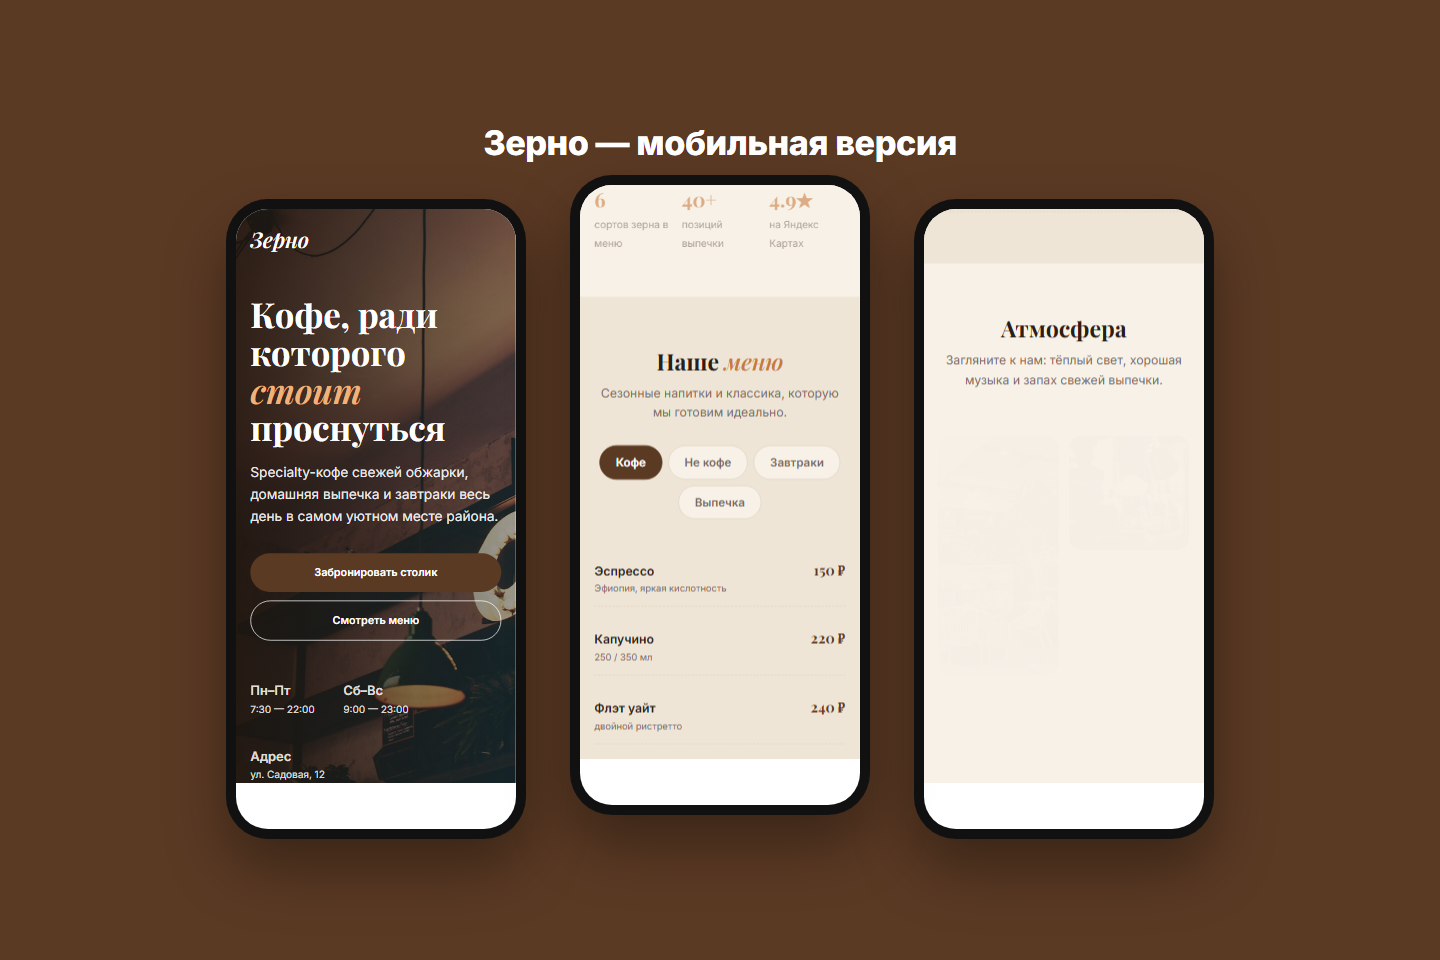
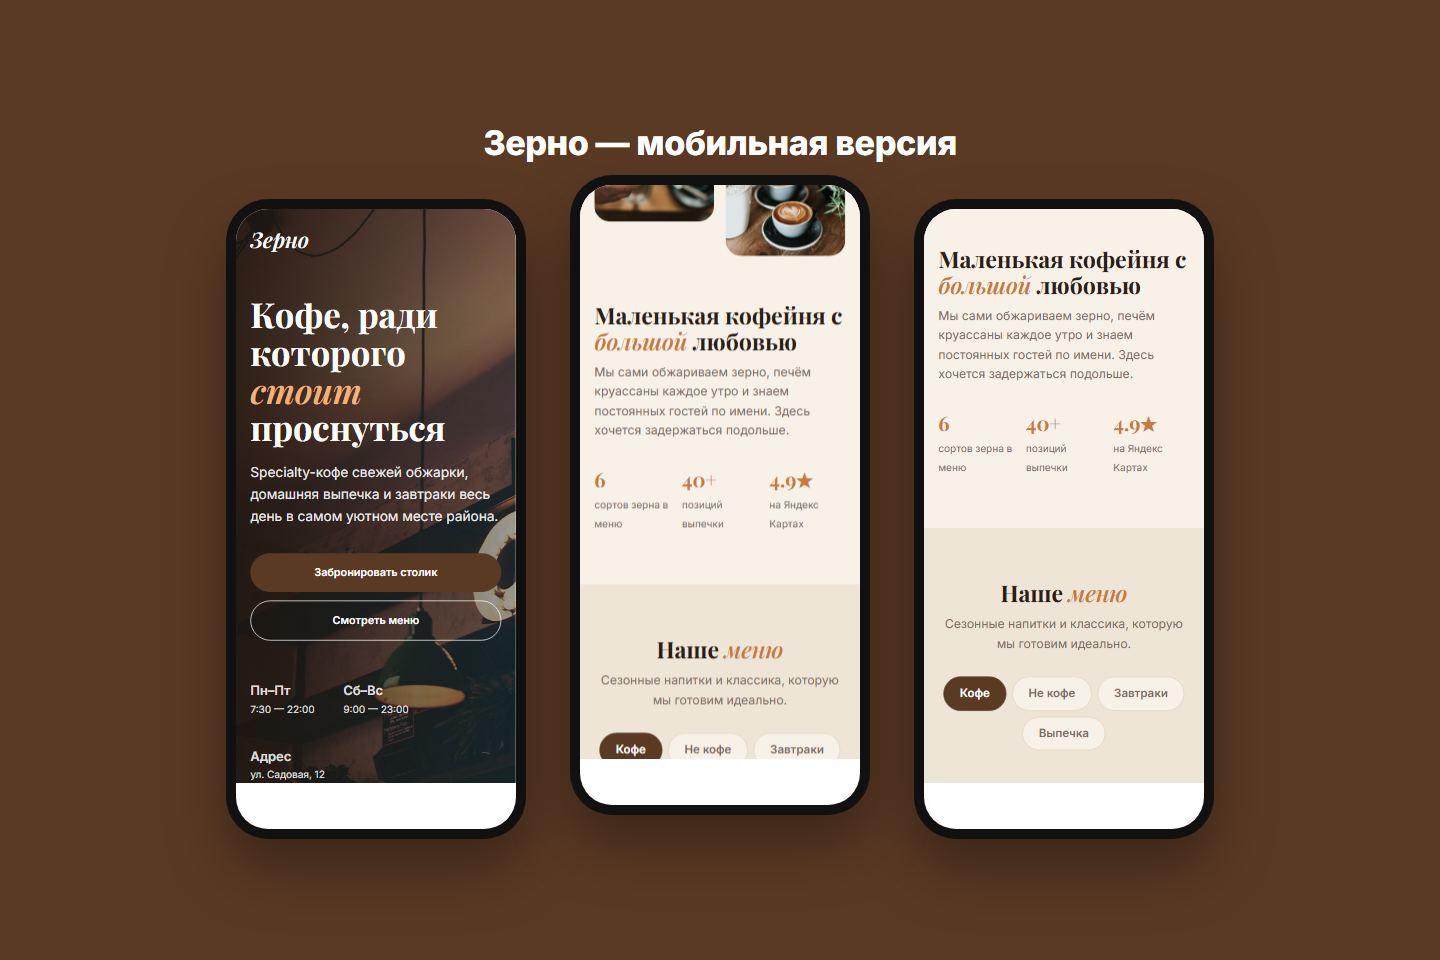
shot: прокрутка к якорю

diff --git a/coffee/index.html b/coffee/index.html
@@ -197,7 +197,7 @@
 </footer>
 
 <script>
-  if (location.search.includes("shot")) { const s = document.createElement("style"); s.textContent = ".reveal{opacity:1!important;transform:none!important;transition:none!important}"; document.head.appendChild(s); }
+  if (location.search.includes("shot")) { const s = document.createElement("style"); s.textContent = ".reveal{opacity:1!important;transform:none!important;transition:none!important}"; document.head.appendChild(s); document.documentElement.style.scrollBehavior = "auto"; addEventListener("load", () => { if (location.hash) document.querySelector(location.hash)?.scrollIntoView(); }); }
   const menu = {
     coffee: [['Эспрессо', 'Эфиопия, яркая кислотность', 150], ['Капучино', '250 / 350 мл', 220], ['Флэт уайт', 'двойной ристретто', 240], ['Раф лавандовый', 'хит сезона', 290], ['Воронка V60', 'альтернатива, 300 мл', 260], ['Колд брю', '16 часов экстракции', 250]],
     drinks: [['Матча латте', 'японский чай + молоко', 280], ['Какао с маршмеллоу', 'бельгийский шоколад', 240], ['Облепиховый чай', 'с мёдом и имбирём', 260], ['Лимонад', 'малина-базилик', 230]],

diff --git a/course/index.html b/course/index.html
@@ -238,7 +238,7 @@
 <footer><div class="container"><span>© 2026 BEATLAB</span><span>Демо-проект для портфолио</span></div></footer>
 
 <script>
-  if (location.search.includes("shot")) { const s = document.createElement("style"); s.textContent = ".reveal{opacity:1!important;transform:none!important;transition:none!important}"; document.head.appendChild(s); }
+  if (location.search.includes("shot")) { const s = document.createElement("style"); s.textContent = ".reveal{opacity:1!important;transform:none!important;transition:none!important}"; document.head.appendChild(s); document.documentElement.style.scrollBehavior = "auto"; addEventListener("load", () => { if (location.hash) document.querySelector(location.hash)?.scrollIntoView(); }); }
   const eq = document.getElementById('eq');
   for (let i = 0; i < 28; i++) {
     const s = document.createElement('span');

diff --git a/dental/index.html b/dental/index.html
@@ -259,7 +259,7 @@
 </footer>
 
 <script>
-  if (location.search.includes("shot")) { const s = document.createElement("style"); s.textContent = ".reveal{opacity:1!important;transform:none!important;transition:none!important}"; document.head.appendChild(s); }
+  if (location.search.includes("shot")) { const s = document.createElement("style"); s.textContent = ".reveal{opacity:1!important;transform:none!important;transition:none!important}"; document.head.appendChild(s); document.documentElement.style.scrollBehavior = "auto"; addEventListener("load", () => { if (location.hash) document.querySelector(location.hash)?.scrollIntoView(); }); }
   const menu = document.getElementById('menu');
   document.getElementById('burger').onclick = () => menu.classList.toggle('open');
   menu.querySelectorAll('a').forEach(a => a.onclick = () => menu.classList.remove('open'));

diff --git a/barbershop/index.html b/barbershop/index.html
@@ -281,7 +281,7 @@
 <a href="#" class="float-cta" aria-label="Написать в Telegram">✈</a>
 
 <script>
-  if (location.search.includes("shot")) { const s = document.createElement("style"); s.textContent = ".reveal{opacity:1!important;transform:none!important;transition:none!important}"; document.head.appendChild(s); }
+  if (location.search.includes("shot")) { const s = document.createElement("style"); s.textContent = ".reveal{opacity:1!important;transform:none!important;transition:none!important}"; document.head.appendChild(s); document.documentElement.style.scrollBehavior = "auto"; addEventListener("load", () => { if (location.hash) document.querySelector(location.hash)?.scrollIntoView(); }); }
   const header = document.getElementById('header');
   addEventListener('scroll', () => header.classList.toggle('scrolled', scrollY > 40));
 
